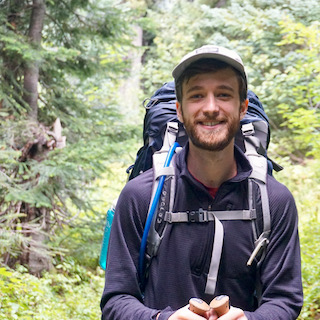
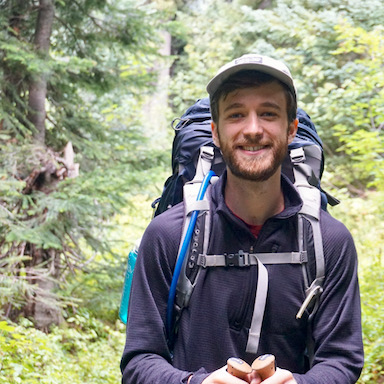
Enlarge profile photo slightly

diff --git a/_sass/_index.scss b/_sass/_index.scss
@@ -3,10 +3,11 @@
   padding-bottom: 1rem;
 
   &-photo {
-    width: 10rem;
-    height: 10rem;
+    width: 12rem;
+    height: 12rem;
     float: right;
-    margin-left: 2rem;
+    margin-left: 1rem;
+    margin-bottom: 1rem;
 
     @media (max-width: $small-screen) {
       float: none;
